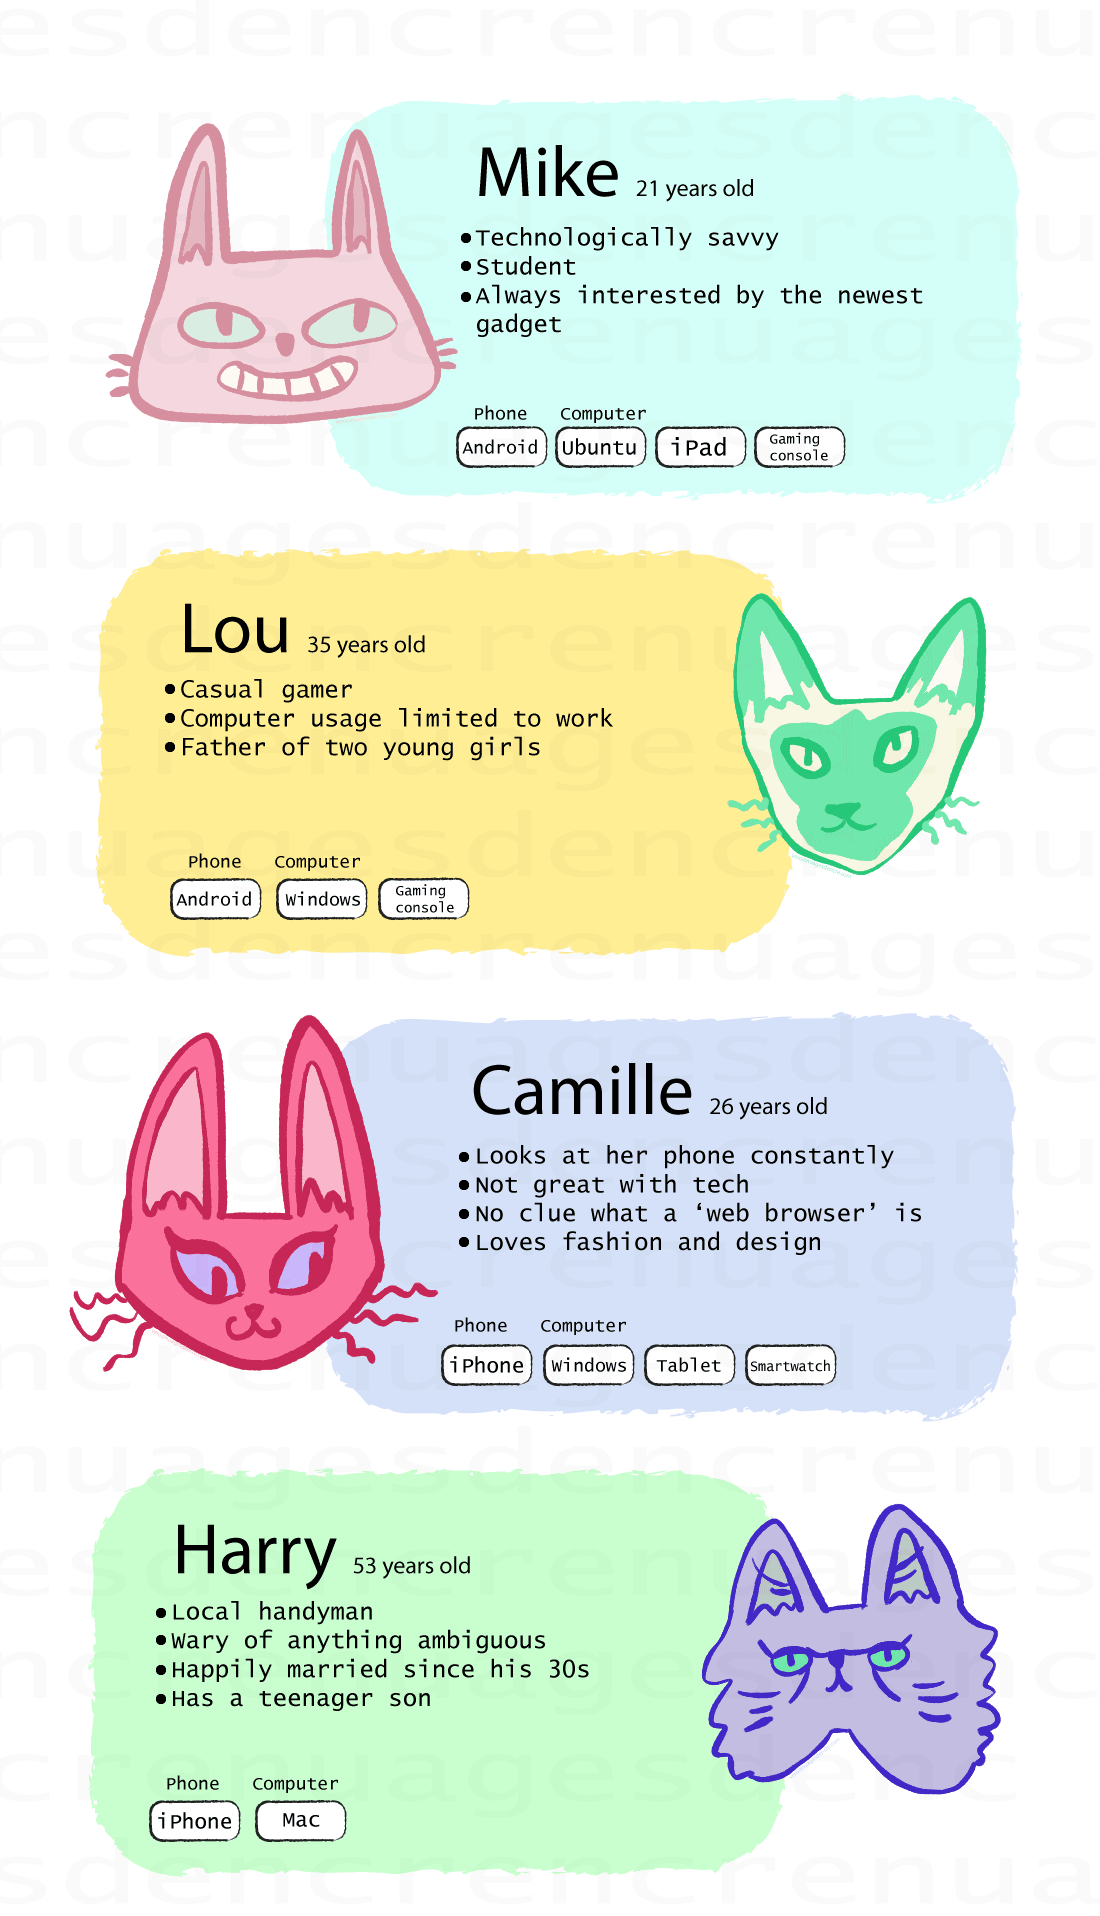
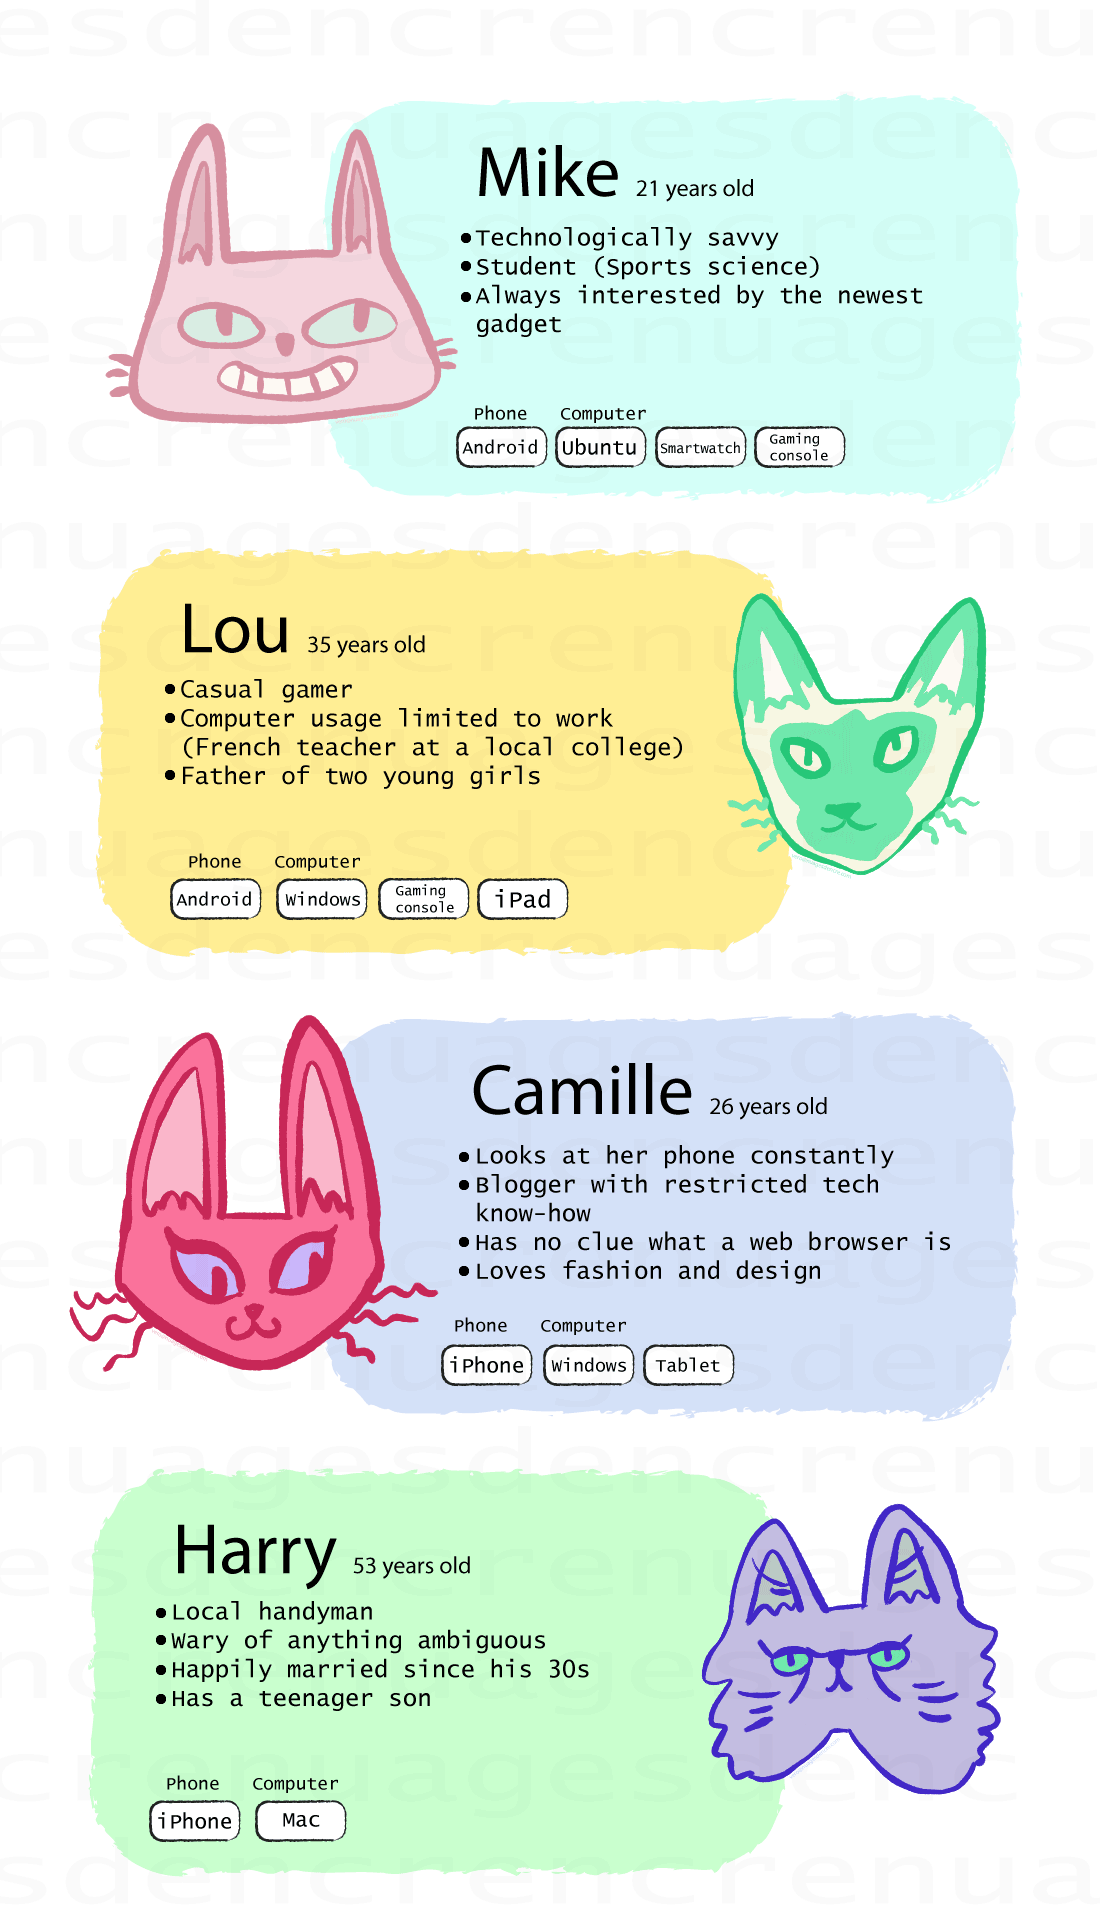
updated user stories' chart + updated readme.md file

diff --git a/README.md b/README.md
@@ -1,48 +1,80 @@
-# VS - Interactive Frontend Project
-## Project deployed here https://nuagesdencre.github.io/CI_InteractiveFrontend/
-# Data Dashboard Creation
+# Data Dashboard Creation - Let's learn about cats!
+## Code Institute - Interactive Frontend Project
+ Project live here: https://nuagesdencre.github.io/CI_InteractiveFrontend/
+***********
+
+
 ## Purpose of the project
-Build a data dashboard that visualizes a dataset of my choice.
+
+[x] Create a Single-Page Application (SPA).
+For this project, I needed to build a data dashboard that visualizes a dataset of my choice. In this case, I decided to pick a whimsical subjects and present it as simply, playfully as possible.
+
+## *Let's learn about cats!*
+
 My data is stored locally; I retrieve it [here](https://mysafeinfo.com/content/options/catbreeds) and tailored it using the wikipedia resource pages [Cat Breeds](https://en.wikipedia.org/wiki/List_of_cat_breeds). 
 
 The data is displayed using D3.js and dc.js.
+[x] Use Git & GitHub for version control. Each new piece of functionality should be in a separate commit.
 
-******
-### Guidelines
+[ ] Deploy the final version of your code to a hosting platform such as GitHub Pages.
 
-[x] Create a Single-Page Application (SPA).
-
+## Functionality of the project 
 [x] Incorporate links or buttons to allow your user to navigate the site and reset/control the site functionality.
 
 [x] Use semantic HTML5 elements to structure your HTML code better.
 
 [x] Make sure your site is as responsive as possible. You can test this by checking the site on different screen sizes and browsers. Please note that if you are building a data dashboard, only your chart containers are expected to be responsive. Charts using D3.js are not responsive as they are designed for desktop or large-screen viewing.
+## Process
 
 [x] Write down user stories and create wireframes/mockups before embarking on full-blown development.
-
+## *Meet our Users*
 <!-- * [User stories here! (wip)](stories/userstories.xlsx) -->
   ![](stories/userstory_frame.png?raw=true)
+
+| User    | Purpose of visit                                                                                                                                         | What the user wants                                                              | Comments                                                                                                                                                                                                                                                                                                                                                                                                                                                                                                                                  |
+| :------ | :------------------------------------------------------------------------------------------------------------------------------------------------------: | :------------------------------------------------------------------------------: | :---------------------------------------------------------------------------------------------------------------------------------------------------------------------------------------------------------------------------------------------------------------------------------------------------------------------------------------------------------------------------------------------------------------------------------------------------------------------------------------------------------------------------------------: |
+| Mike    | Mike wanted to impress his overseas girlfriend with his knowledge of fancy cats.                                                                         | Resource where cats' data can be accessed quickly, without fuss                  | Mike quickly accessed the webpage and clicked the charts to select the hairless cat category. He used the search field to narrow down his search for the cats in Canada (where is girlfriend lives). He thought the webpage' colours were a bit bright but okay for a short visit. Mike enjoyed the random fact wheel at the top of the page, that he noticed after scrolling up and down a few times.                                                                                                                                    |
+| Lou     | Lou's daughters are eager to look at anything cute and fluffy. Lou set up the webpage on his iPad so they could look at cats together.                   | A convivial webpage where kids and adults can learn about cats                   | Lou and his daughters were happy to click on the piecharts and see them be animated with each touch. The table displayed a lot of lovely pictures and Lou showed the girls how to use the pagination to see all of them. The girls enjoy the bright colors and turn the iPad in all directions to see everything.                                                                                                                                                                                                                         |
+| Camille | Camille wishes to purchase a fancy cat she can pamper and doll up. She wants to know which cat is the most glamourous pf them all.                       | A place where the cats' data can be narrowed down according to their appearance  | At first, Camille tries to access the page using her phone - but a message advises her that the webpage can be viewed on bigger screen only. She uses her tablet instead. By clicking on the 'fur pattern' wheel, Camille is able to pinpoint the type of appareance of her future pet. She finds the Toyger quite adorable and she clicks on the 'Learn more' button within the table to access the wikipedia page for more details.                                                                                                     |
+| Harry   | Harry rescued a kitten while cleaning his brother-in-law's attic. He has since adopted the kitty and he now wants to know which kind of cat it could be. | A cats' resource page where to narrow down a search using a variety of criterias | As he accesses the page, Harry has a quick overall look (no endless paragraphs to read, no login needed, no pop-ups, okay). Harry was told by his family it could probably be a 'tabby'. He looks up in the alphabetical drop-down menu but does not see tabby right away. He carefully selects the relevant criteria on the piewheel to see the results. There are a lot of choices, so he starts with the wheels where he can read most of them. He concludes his visit  convinced that the cat is, in the end, no breed in particular. |
+
+## The webpage's mockup
 * [Mockup here!](datadashboard.png)
 
-[x] The site can also make use of CSS frameworks such as Bootstrap, just make sure you maintain a clear separation between the library code and your code.
--- Created a vendor file to ensure a clear separation between the library code and my own code.
+## Technologies used 
 
-[wip] You should conduct and document tests to ensure that all of your website's functionality works well.
+Since my single-page application makes use of Bootstrap (a CSS frameworks) and other libraries, I created a vendor file to ensure a clear separation between the library code and my own code.
 
-[x] Use Git & GitHub for version control. Each new piece of functionality should be in a separate commit.
 
-[ ] Deploy the final version of your code to a hosting platform such as GitHub Pages.
+
+```
+HTML
+CSS
+
+Javascript Libraries:
+- d3.js
+- dc.js
+- crossfilter.js
+- queue.js
+- jQuery
+```
+Detail how the project was deployed and tested and if some of the work was based on other code, explain what was kept and how it was changed to fit your need.
 
 ## Testing
 
 ```
 Jasmine: useful when input is given, DOM generated  & retruns a value -- this project does not give me the opportunity to use it
-```
-## What the project does and the need that it fulfills
-## Functionality of the project 
-## Technologies used 
-```
-D3.js, Dc.js, Boostrap, jQuery
-```
-Detail how the project was deployed and tested and if some of the work was based on other code, explain what was kept and how it was changed to fit your need.
 
+Screen size
+- Tested on various devices and screen sizes
+- Message displayed when screen size deemed too small for a proper view of the dashboard. This message invites the viewer to return to the page using a larger size screen.
+
+```
+[wip] You should conduct and document tests to ensure that all of your website's functionality works well.
+
+## Hurdles
+
+
+
+## Contact
+vero@nuagesdencre.com
